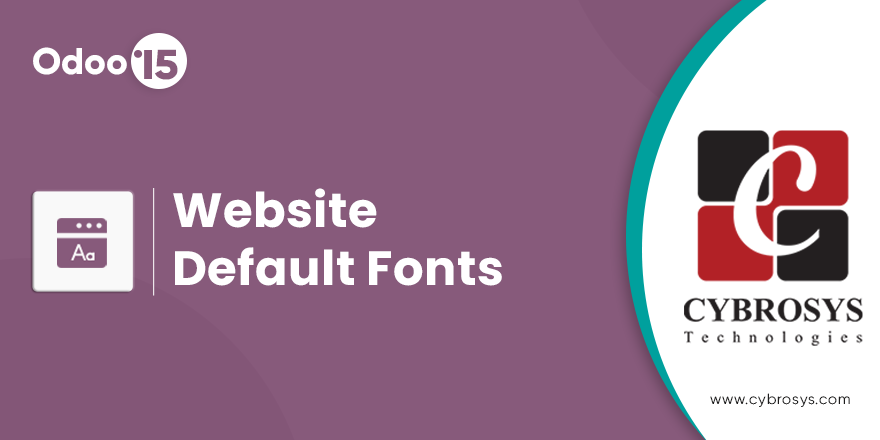
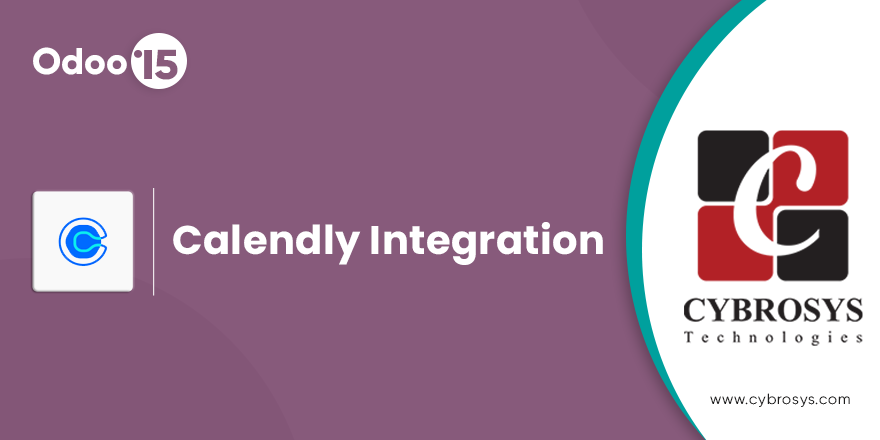
changed app info

Changed region(s): [[0.1841, 0.4136, 0.7057, 0.65], [0.0614, 0.4727, 0.1227, 0.6205]]

diff --git a/calendly_event/static/description/index.html b/calendly_event/static/description/index.html
@@ -92,7 +92,8 @@
       <p
         style="font-family: 'Roboto', sans-serif !important; font-weight: 400 !important; color: #282F33 !important; font-size: 1rem !important; line-height: 30px !important;">
         This module create calendar events based on calendly appointments.
-        For that first Install the calendly package.
+        Create a user with the same email adderss of calendly.
+        For connecting calendly first Install the calendly package.
       <h3>pip install calendly</h3> </p>
     </div>
     </p>

diff --git a/calendly_event/__manifest__.py b/calendly_event/__manifest__.py
@@ -35,7 +35,7 @@
         'views/calendly_warning_views.xml',
         'views/res_config_settings_views.xml',
     ],
-    # 'images': ['static/description/banner.png'],
+    'images': ['static/description/banner.png'],
 
     'installable': True,
     'application': False,
